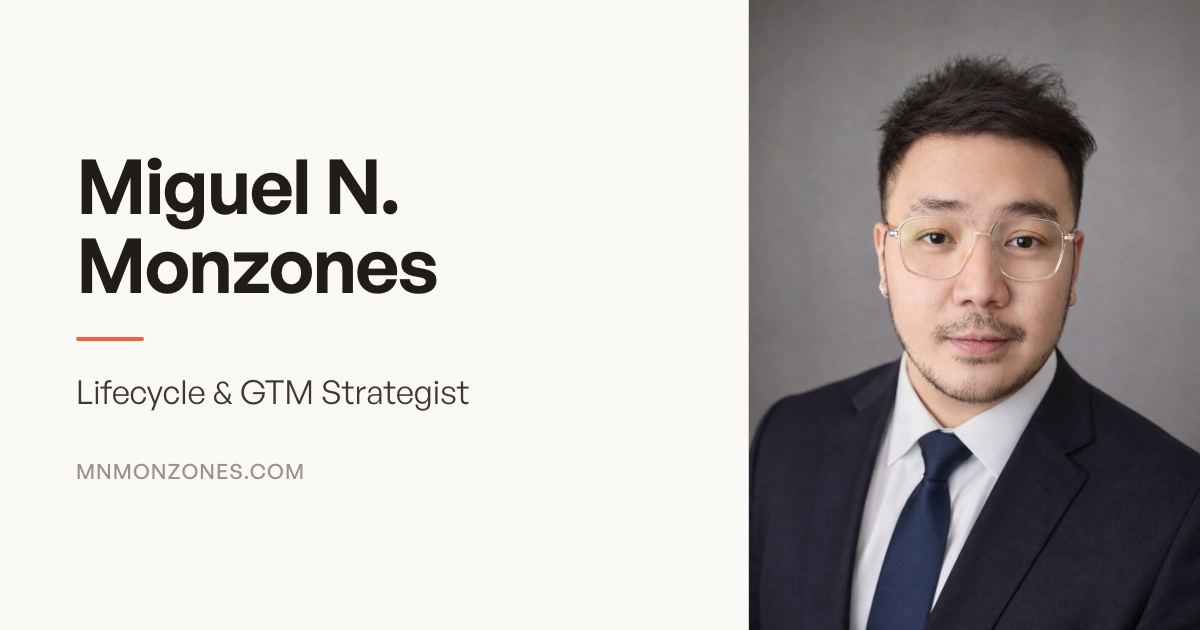
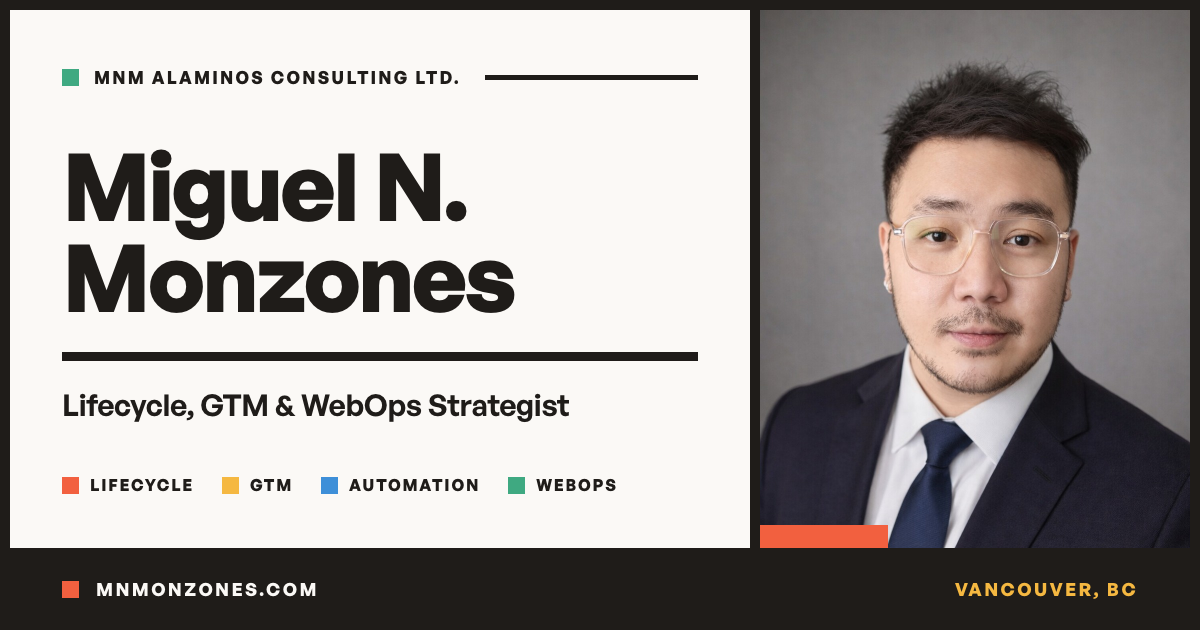
Rebuild the link-preview card in the site's own design language
The old site card was a generic preview layout — a portrait, a name, a thin
coral rule — that shared nothing with the site it linked to. An unfurl is the
first thing most people see of the site, so it now shows the Bold language
rather than describing it: an ink frame, a paper panel, 700-weight display type
over a hard ink bar, the four disciplines as colour chips, and the domain along
a dark footer band.

Nothing on the card is retyped. It already read SITE.title and SITE.role; it now
also reads SITE.location and CONTACT.entity, and every colour is parsed out of
global.css tokens. The role line gains WebOps, which is a claim about the work,
not just the card, so it changes SITE.role and with it the tab title, og:title
and llms.txt headers.

The chips deliberately follow the home page's hero slabs, not CATEGORY_ACCENT —
those are archive groups, and the hero pairs the same four accents differently.
Someone who sees the unfurl and lands on the page should meet the same four
colours in the same order, so checkPillars now parses SLABS out of index.astro
and fails the build if they drift. The card is cached hard by LinkedIn and
Slack, so a mismatch would outlive the deploy that caused it by weeks.

Alongside it, two fixes to the row the card mirrors:

- "Operations" becomes "Web Operations". The general kind is already part of
  every other slab, so naming it alone claimed something broader than the work.
[…]

Changed region(s): [[0.0, 0.0, 1.0, 1.0], [0.4008, 0.1206, 0.5858, 0.1508], [0.925, 0.6333, 0.9558, 0.6635]]

diff --git a/src/config.ts b/src/config.ts
@@ -12,7 +12,7 @@ export const SITE = {
   title: 'Miguel N. Monzones',
   /** Shown after the page title in the browser tab: "The Work · Miguel N. Monzones" */
   titleSeparator: '·',
-  role: 'Lifecycle & GTM Strategist',
+  role: 'Lifecycle, GTM & WebOps Strategist',
   description:
     "Senior lifecycle and GTM strategist with 12 years in fintech, SaaS, and ecommerce. I read what's actually wrong, decide what should exist, then build it.",
   author: 'Miguel N. Monzones',
@@ -24,8 +24,9 @@ export const SITE = {
   /**
    * Link-preview image for Open Graph / Twitter cards, relative to the site
    * root. Built by `node scripts/build-og-image.mjs`, which composes the hero
-   * portrait with this file's `title` and `role` — so changing either of those
-   * means regenerating the image, or the unfurl and the site disagree.
+   * portrait with this file's `title`, `role`, `location` and CONTACT.entity —
+   * so changing any of those means regenerating the image, or the unfurl and
+   * the site disagree.
    *
    * Set to null to omit the image meta tags entirely rather than point them at
    * a URL that 404s; BaseLayout also drops `twitter:card` back to `summary`.
